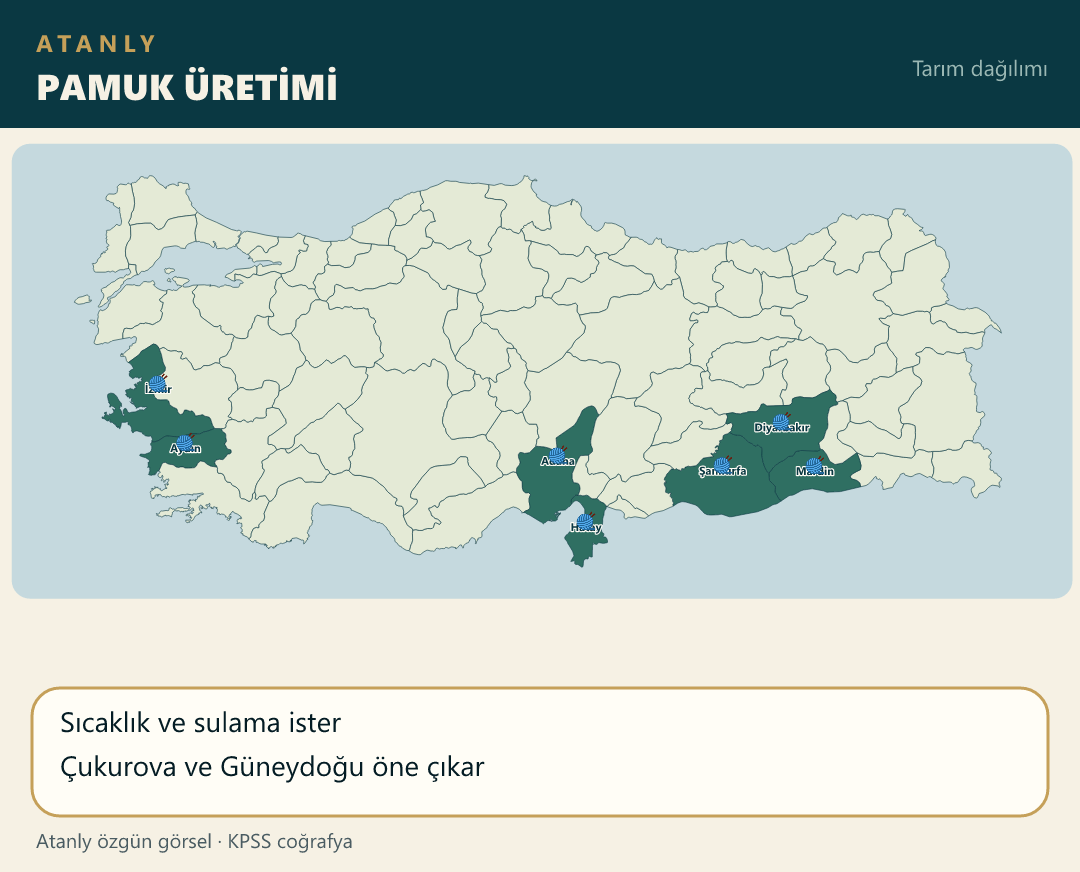
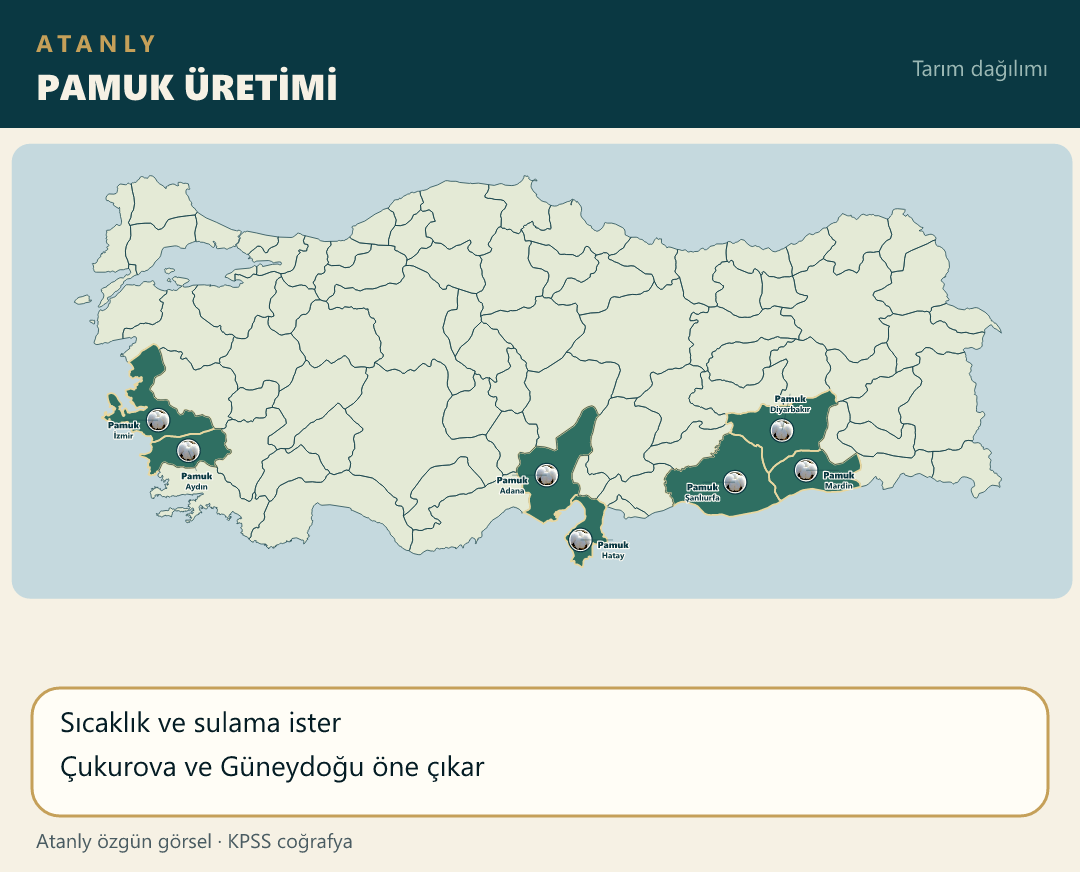
Place the cotton photo on the production provinces' land-center pins.

diff --git a/scripts/build-atanly-maps.js b/scripts/build-atanly-maps.js
@@ -612,7 +612,17 @@ function main() {
                 { il: "Adana", ilce: "Ceyhan" }
             ],
             facts: ["İç Anadolu ve Güneydoğu başta gelir", "Trakya’da da önemli ekim alanı vardır"] },
-        { file: "pamuk.png", title: "PAMUK ÜRETİMİ", iller: ["Şanlıurfa", "Diyarbakır", "Adana", "Aydın", "İzmir", "Hatay", "Mardin"], facts: ["Sıcaklık ve sulama ister", "Çukurova ve Güneydoğu öne çıkar"] },
+        { file: "pamuk.png", title: "PAMUK ÜRETİMİ", urun: "Pamuk",
+            noktalar: [
+                { il: "Şanlıurfa", ldx: -32, ldy: 8 },
+                { il: "Diyarbakır", ldx: 8, ldy: -28 },
+                { il: "Adana", ldx: -34, ldy: 8 },
+                { il: "Aydın", ldx: 8, ldy: 28 },
+                { il: "İzmir", ldx: -34, ldy: 8 },
+                { il: "Hatay", ldx: 32, ldy: 8 },
+                { il: "Mardin", ldx: 32, ldy: 8 }
+            ],
+            facts: ["Sıcaklık ve sulama ister", "Çukurova ve Güneydoğu öne çıkar"] },
         { file: "zeytin.png", title: "ZEYTİN ÜRETİMİ", iller: ["Aydın", "İzmir", "Balıkesir", "Manisa", "Muğla", "Bursa", "Hatay", "Mersin", "Gaziantep"], facts: ["Akdeniz iklimi kıyı kuşağı", "Ege birinci sıradadır"] },
         { file: "üzüm.png", title: "ÜZÜM ÜRETİMİ", iller: ["Manisa", "Denizli", "İzmir", "Nevşehir", "Elazığ", "Gaziantep", "Tekirdağ"], facts: ["Ege bağcılığın merkezidir", "Kapadokya ve Güneydoğu’da da yetişir"] },
         { file: "mısır.png", title: "MISIR ÜRETİMİ", urun: "Mısır",

diff --git a/notlar/cografya-19-not.js b/notlar/cografya-19-not.js
@@ -2,7 +2,7 @@
 (function () {
     function harita(src, alt) {
         return '<div class="mt-4 overflow-hidden rounded-xl border border-blue-200 dark:border-blue-700/50 bg-white dark:bg-slate-800 p-2">' +
-            '<img src="./src/img/' + src + '?v=31" alt="' + alt + ' Haritası" class="w-full h-auto rounded-lg object-contain" loading="lazy">' +
+            '<img src="./src/img/' + src + '?v=32" alt="' + alt + ' Haritası" class="w-full h-auto rounded-lg object-contain" loading="lazy">' +
             "</div>";
     }
 

diff --git a/index.html b/index.html
@@ -117,7 +117,7 @@
     <script src="notlar/cografya-16-not.js?v=3"></script>
     <script src="notlar/cografya-17-not.js?v=3"></script>
     <script src="notlar/cografya-18-not.js?v=17"></script>
-    <script src="notlar/cografya-19-not.js?v=27"></script>
+    <script src="notlar/cografya-19-not.js?v=28"></script>
     <script src="notlar/cografya-20-not.js?v=1"></script>
     <script src="notlar/cografya-21-not.js?v=32"></script>
     <script src="notlar/cografya-22-not.js?v=1"></script>
